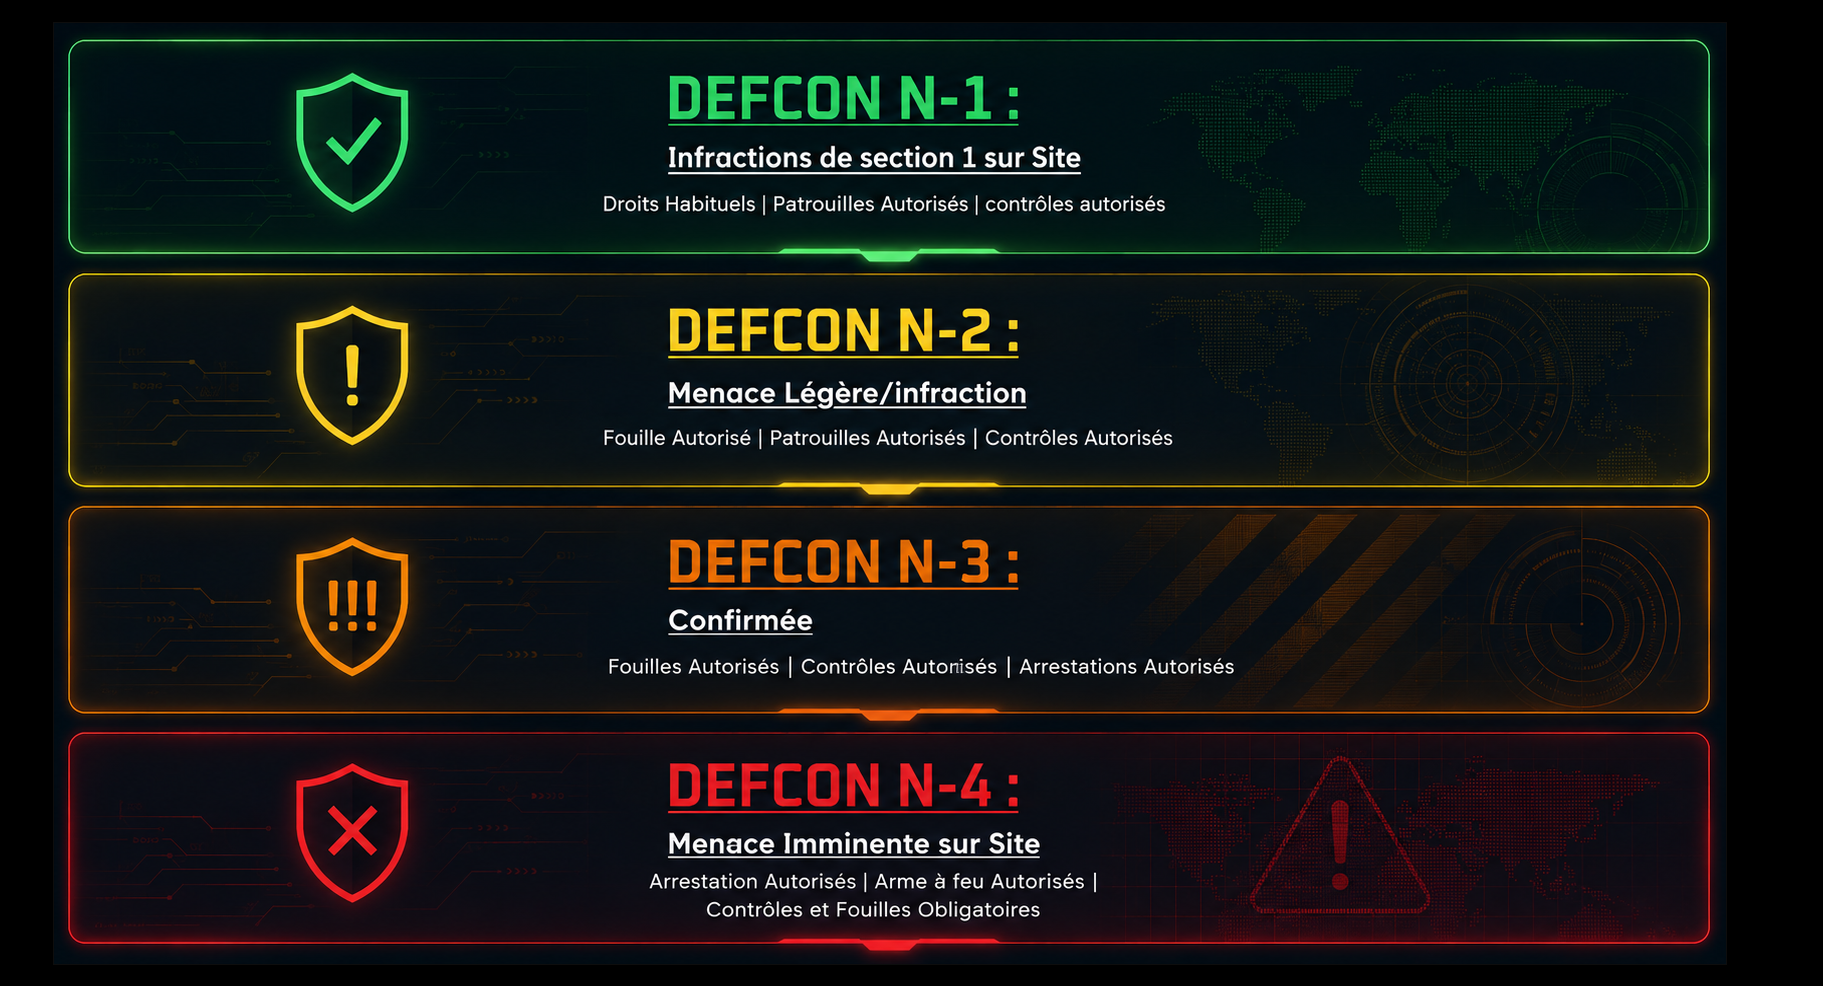
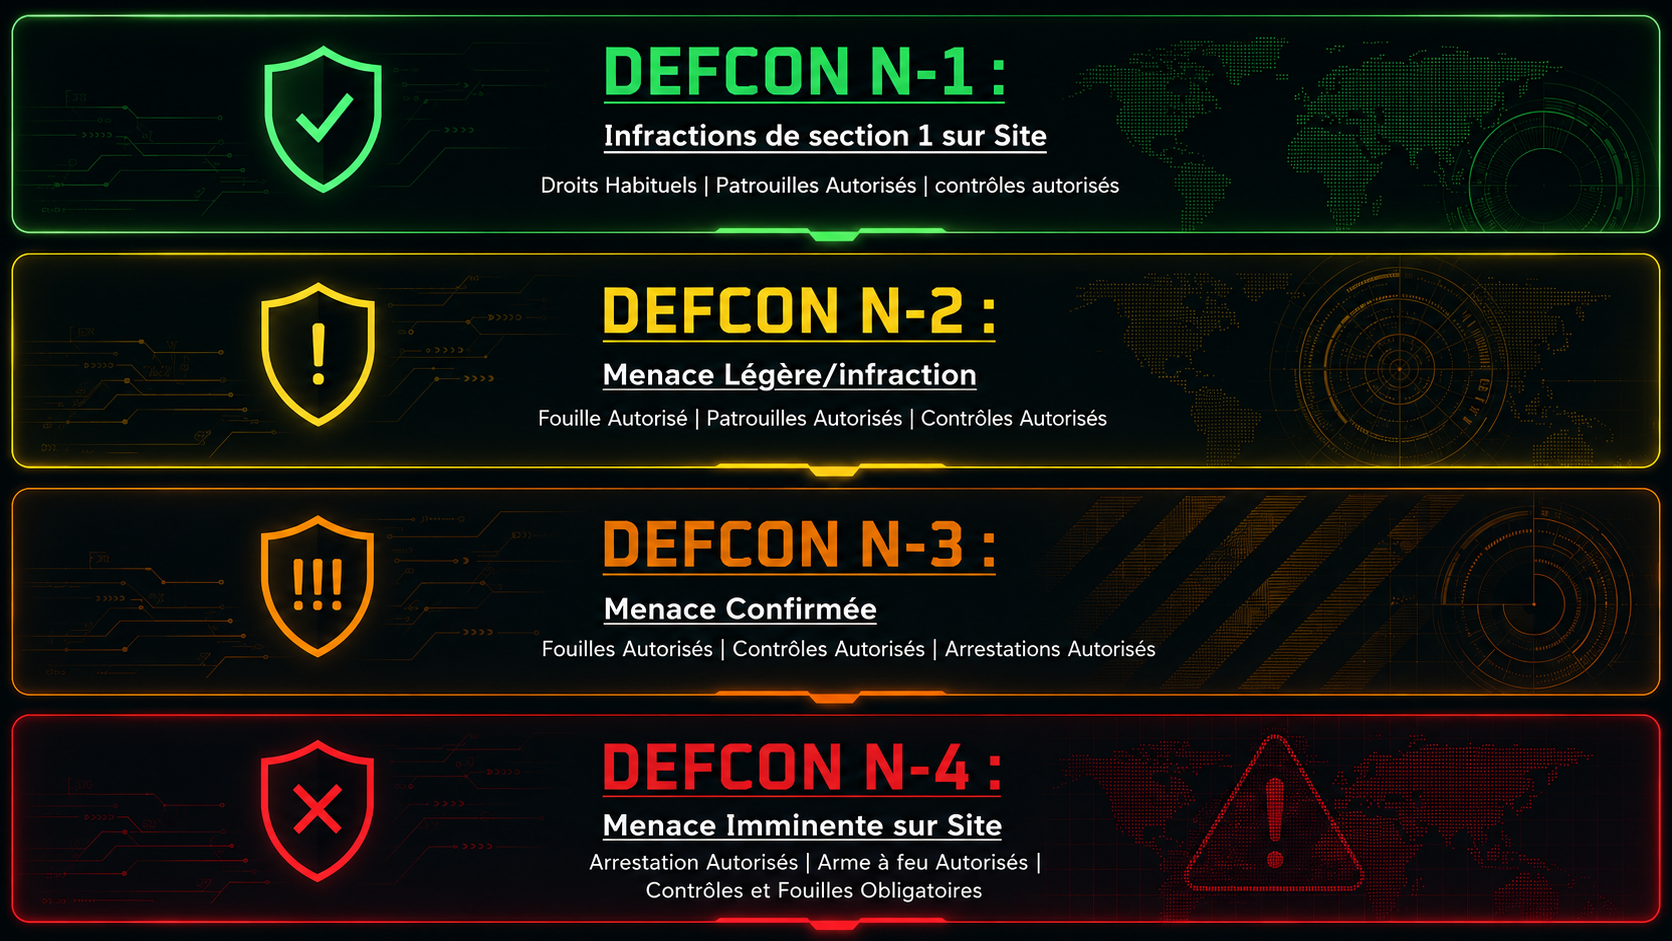
Add files via upload

Changed region(s): [[0.0, 0.0, 1.0, 1.0], [0.2488, 0.3698, 0.2799, 0.4006], [0.0933, 0.1541, 0.1244, 0.1849]]

diff --git a/script.js b/script.js
@@ -52,6 +52,44 @@ let menuAdministrationOuvert = false;
 let moduleGdaActif = "";
 let revisionDonneesGDA = null;
 let actualisationModuleGdaEnCours = false;
+let requetesEcritureActivesGDA = 0;
+let minuteurEtatEcritureGDA = null;
+let derniereMutationLocaleGDA = null;
+
+function demarrerEtatEcritureGDA(action) {
+  requetesEcritureActivesGDA += 1;
+  if (requetesEcritureActivesGDA > 1) return;
+  window.clearTimeout(minuteurEtatEcritureGDA);
+  minuteurEtatEcritureGDA = window.setTimeout(function () {
+    let etat = document.getElementById("gdaSauvegardeEtat");
+    if (!etat) {
+      etat = document.createElement("div");
+      etat.id = "gdaSauvegardeEtat";
+      etat.setAttribute("role", "status");
+      etat.setAttribute("aria-live", "polite");
+      document.body.appendChild(etat);
+    }
+    etat.textContent = /rapport|demande/i.test(String(action || ""))
+      ? "Envoi en cours…"
+      : "Enregistrement en cours…";
+    etat.classList.add("visible");
+  }, 120);
+}
+
+function terminerEtatEcritureGDA(action, reussie) {
+  requetesEcritureActivesGDA = Math.max(0, requetesEcritureActivesGDA - 1);
+  if (reussie) {
+    derniereMutationLocaleGDA = {
+      action: String(action || ""),
+      termineeLe: Date.now()
+    };
+  }
+  if (requetesEcritureActivesGDA > 0) return;
+  window.clearTimeout(minuteurEtatEcritureGDA);
+  const etat = document.getElementById("gdaSauvegardeEtat");
+  if (!etat) return;
+  etat.classList.remove("visible");
+}
 
 function definirModuleGdaActif(nom) {
   moduleGdaActif = String(nom || "");
@@ -371,6 +409,17 @@ function traiterRevisionDonneesGDA(revision, derniereAction) {
     cibles.push("recupererJournalActions");
   }
   invaliderCacheLecturesActionsGDA(cibles);
+
+  const mutationLocaleRecente =
+    derniereMutationLocaleGDA &&
+    derniereMutationLocaleGDA.action === action &&
+    Date.now() - Number(derniereMutationLocaleGDA.termineeLe || 0) < 12000;
+  if (mutationLocaleRecente) {
+    // Le module ayant déclenché l'action a déjà appliqué sa propre réponse.
+    // On évite donc une seconde lecture complète quelques secondes plus tard.
+    derniereMutationLocaleGDA = null;
+    return;
+  }
 
   window.dispatchEvent(new CustomEvent("gda-donnees-modifiees", {
     detail: {
@@ -739,7 +788,26 @@ window.fetch = function(ressource, options) {
       } else if (action && !ACTIONS_SANS_INVALIDATION_CACHE_GDA.has(action)) {
         viderCacheLecturesGDA();
       }
-      return fetchApiAvecDelaiGDA(url.toString(), options).then(securiserReponseJsonGDA);
+      const ecriture = methode !== "GET";
+      if (ecriture) demarrerEtatEcritureGDA(action);
+      return fetchApiAvecDelaiGDA(url.toString(), options)
+        .then(securiserReponseJsonGDA)
+        .then(async function (reponse) {
+          let reussie = reponse.ok;
+          if (ecriture) {
+            try {
+              const resultat = await reponse.clone().json();
+              reussie = reussie && resultat && resultat.success !== false;
+            } catch (erreur) {
+              reussie = false;
+            }
+            terminerEtatEcritureGDA(action, reussie);
+          }
+          return reponse;
+        }, function (erreur) {
+          if (ecriture) terminerEtatEcritureGDA(action, false);
+          throw erreur;
+        });
     }
 
     const forcee =
@@ -2190,6 +2258,13 @@ function marquerChoixDefconActifGDA(niveau) {
 async function definirDefconGDA(niveau) {
   const boutonCommande = document.getElementById("defconCommandeBouton");
   const boutons = Array.from(document.querySelectorAll(".defcon-choix button"));
+  const ancienNiveau =
+    Number(document.getElementById("defconEntete")?.dataset.niveau) || 0;
+  afficherDefconGDA({
+    niveau: niveau,
+    modifiePar: sessionStorage.getItem("nomUtilisateur") || ""
+  });
+  fermerCommandeDefconGDA();
   if (boutonCommande) boutonCommande.disabled = true;
   boutons.forEach(function (bouton) { bouton.disabled = true; });
   try {
@@ -2214,6 +2289,7 @@ async function definirDefconGDA(niveau) {
       "succes"
     );
   } catch (erreur) {
+    afficherDefconGDA({ niveau: ancienNiveau });
     afficherNotificationGDA(erreur.message || "Impossible de modifier le DEFCON.", "erreur");
   } finally {
     if (boutonCommande) boutonCommande.disabled = false;

diff --git a/style.css b/style.css
@@ -522,7 +522,7 @@ h1 {
 
   display: grid;
   grid-template-columns: 280px 1fr;
-  grid-template-rows: 90px 1fr;
+  grid-template-rows: 112px 1fr;
 
   width: 100vw;
   height: 100vh;
@@ -573,7 +573,7 @@ h1 {
   align-items: center;
   gap: 20px;
 
-  padding: 15px 25px;
+  padding: 7px 25px;
 
   border-bottom:
     1px solid rgba(80, 145, 220, 0.32);
@@ -623,16 +623,58 @@ h1 {
 /* Le fichier source reste intact : chaque niveau est cadré dans le sprite. */
 .defcon-entete {
   position: relative;
-  flex: 1 1 460px;
-  width: min(36vw, 620px);
-  min-width: 180px;
-  max-width: 620px;
+  flex: 1 1 680px;
+  width: min(43vw, 780px);
+  min-width: 350px;
+  max-width: 780px;
   aspect-ratio: 1642 / 214;
   margin-left: auto;
   overflow: hidden;
   border-radius: 9px;
   isolation: isolate;
   box-shadow: 0 0 13px rgba(80, 170, 255, 0.18);
+}
+
+#gdaSauvegardeEtat {
+  position: fixed;
+  z-index: 10000;
+  right: 18px;
+  bottom: 18px;
+  display: flex;
+  align-items: center;
+  gap: 9px;
+  padding: 10px 14px;
+  border: 1px solid rgba(75, 174, 255, 0.52);
+  border-radius: 999px;
+  background: rgba(5, 20, 34, 0.96);
+  color: #dcefff;
+  font-size: 12px;
+  font-weight: 800;
+  letter-spacing: 0.45px;
+  opacity: 0;
+  pointer-events: none;
+  transform: translateY(9px);
+  transition: opacity 0.18s ease, transform 0.18s ease;
+  box-shadow: 0 9px 28px rgba(0, 0, 0, 0.45);
+}
+
+#gdaSauvegardeEtat.visible {
+  opacity: 1;
+  transform: none;
+}
+
+#gdaSauvegardeEtat::before {
+  content: "";
+  width: 14px;
+  height: 14px;
+  border: 2px solid rgba(111, 199, 255, 0.25);
+  border-top-color: #6dc8ff;
+  border-radius: 50%;
+  animation: gdaSauvegardeRotation 0.7s linear infinite;
+}
+
+@keyframes gdaSauvegardeRotation {
+  to { transform: rotate(360deg); }
 }
 
 .defcon-entete[hidden] {
@@ -1617,6 +1659,11 @@ h1 {
   .defcon-entete {
     min-width: 92px;
     width: 26vw;
+  }
+
+  #gdaSauvegardeEtat {
+    right: 10px;
+    bottom: 10px;
   }
 }
 /* Apparition progressive commune à tous les modules. */

diff --git a/index.html b/index.html
@@ -10,7 +10,7 @@
   <link rel="preconnect" href="https://script.googleusercontent.com">
 
   <!-- STYLE PRINCIPAL -->
-<link rel="stylesheet" href="style.css?v=20260726-1">
+<link rel="stylesheet" href="style.css?v=20260726-2">
 
   <!-- STYLE DE L'EFFECTIF -->
 <link rel="stylesheet" href="effectif.css?v=20260719-14">
@@ -473,7 +473,7 @@
   ========================== -->
 
   <!-- Script principal : connexion et bureau -->
-<script src="script.js?v=20260726-1"></script>
+<script src="script.js?v=20260726-2"></script>
 
   <!-- Module Effectif -->
 <script src="effectif.js?v=20260725-1"></script>
